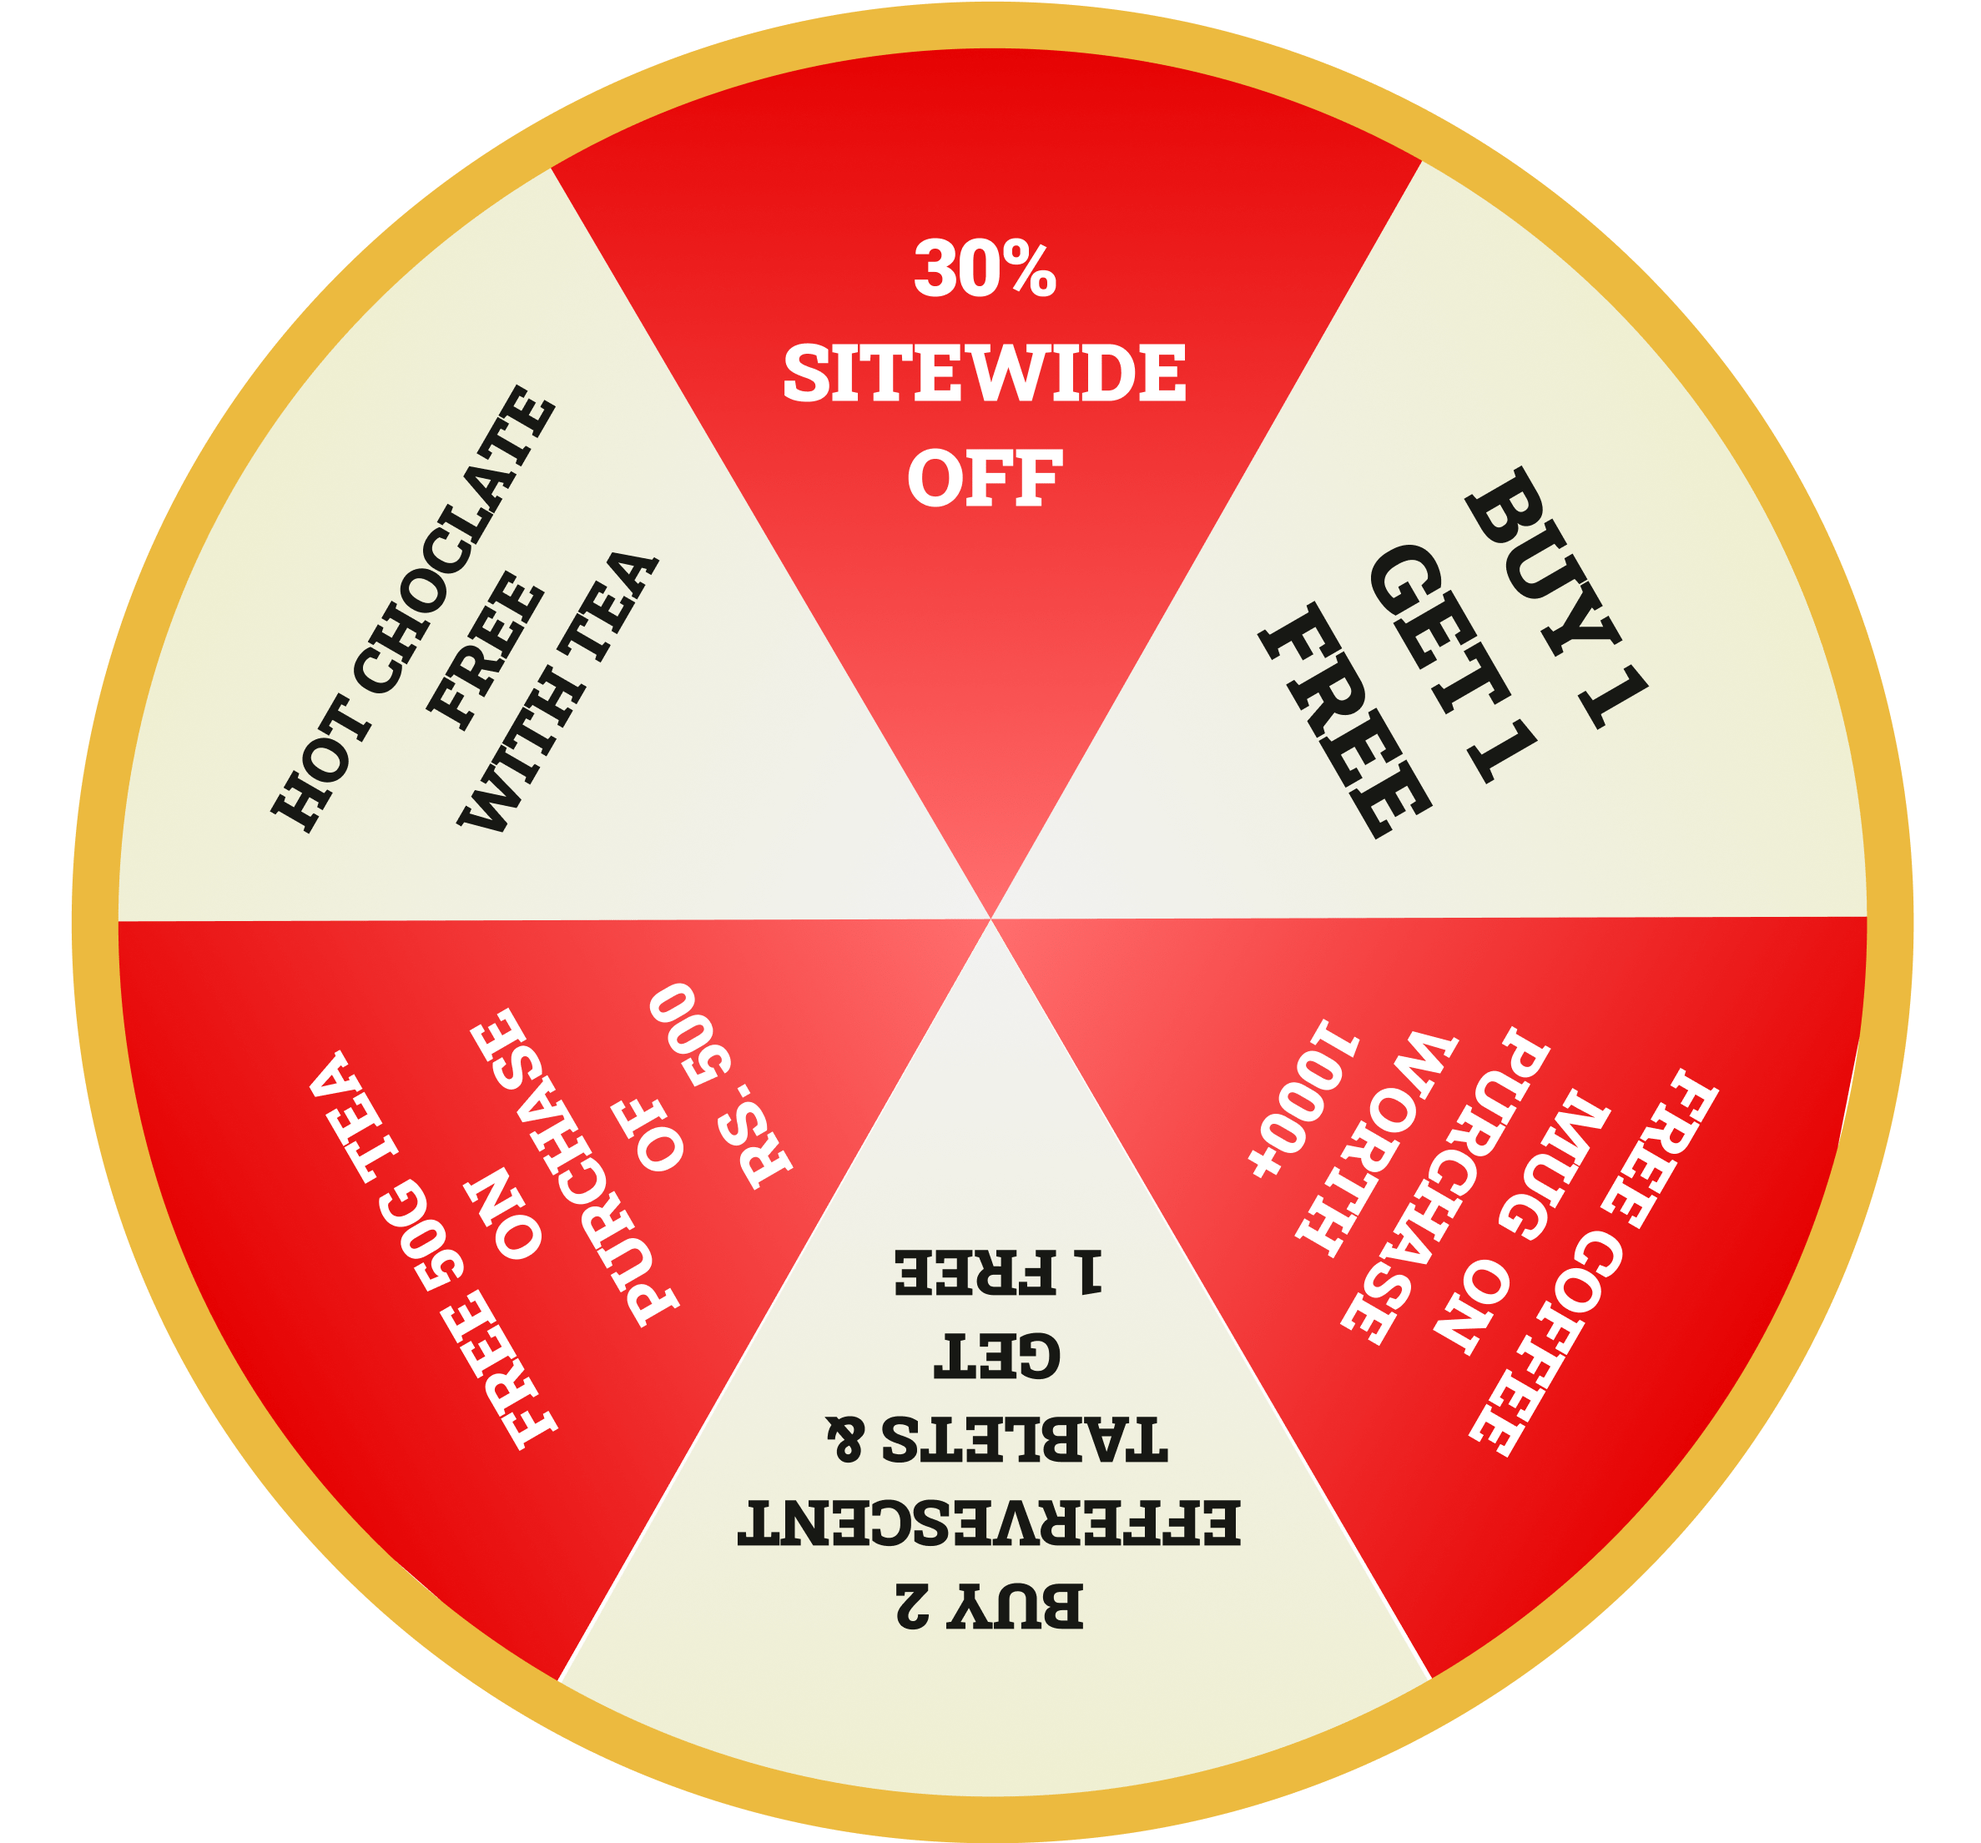
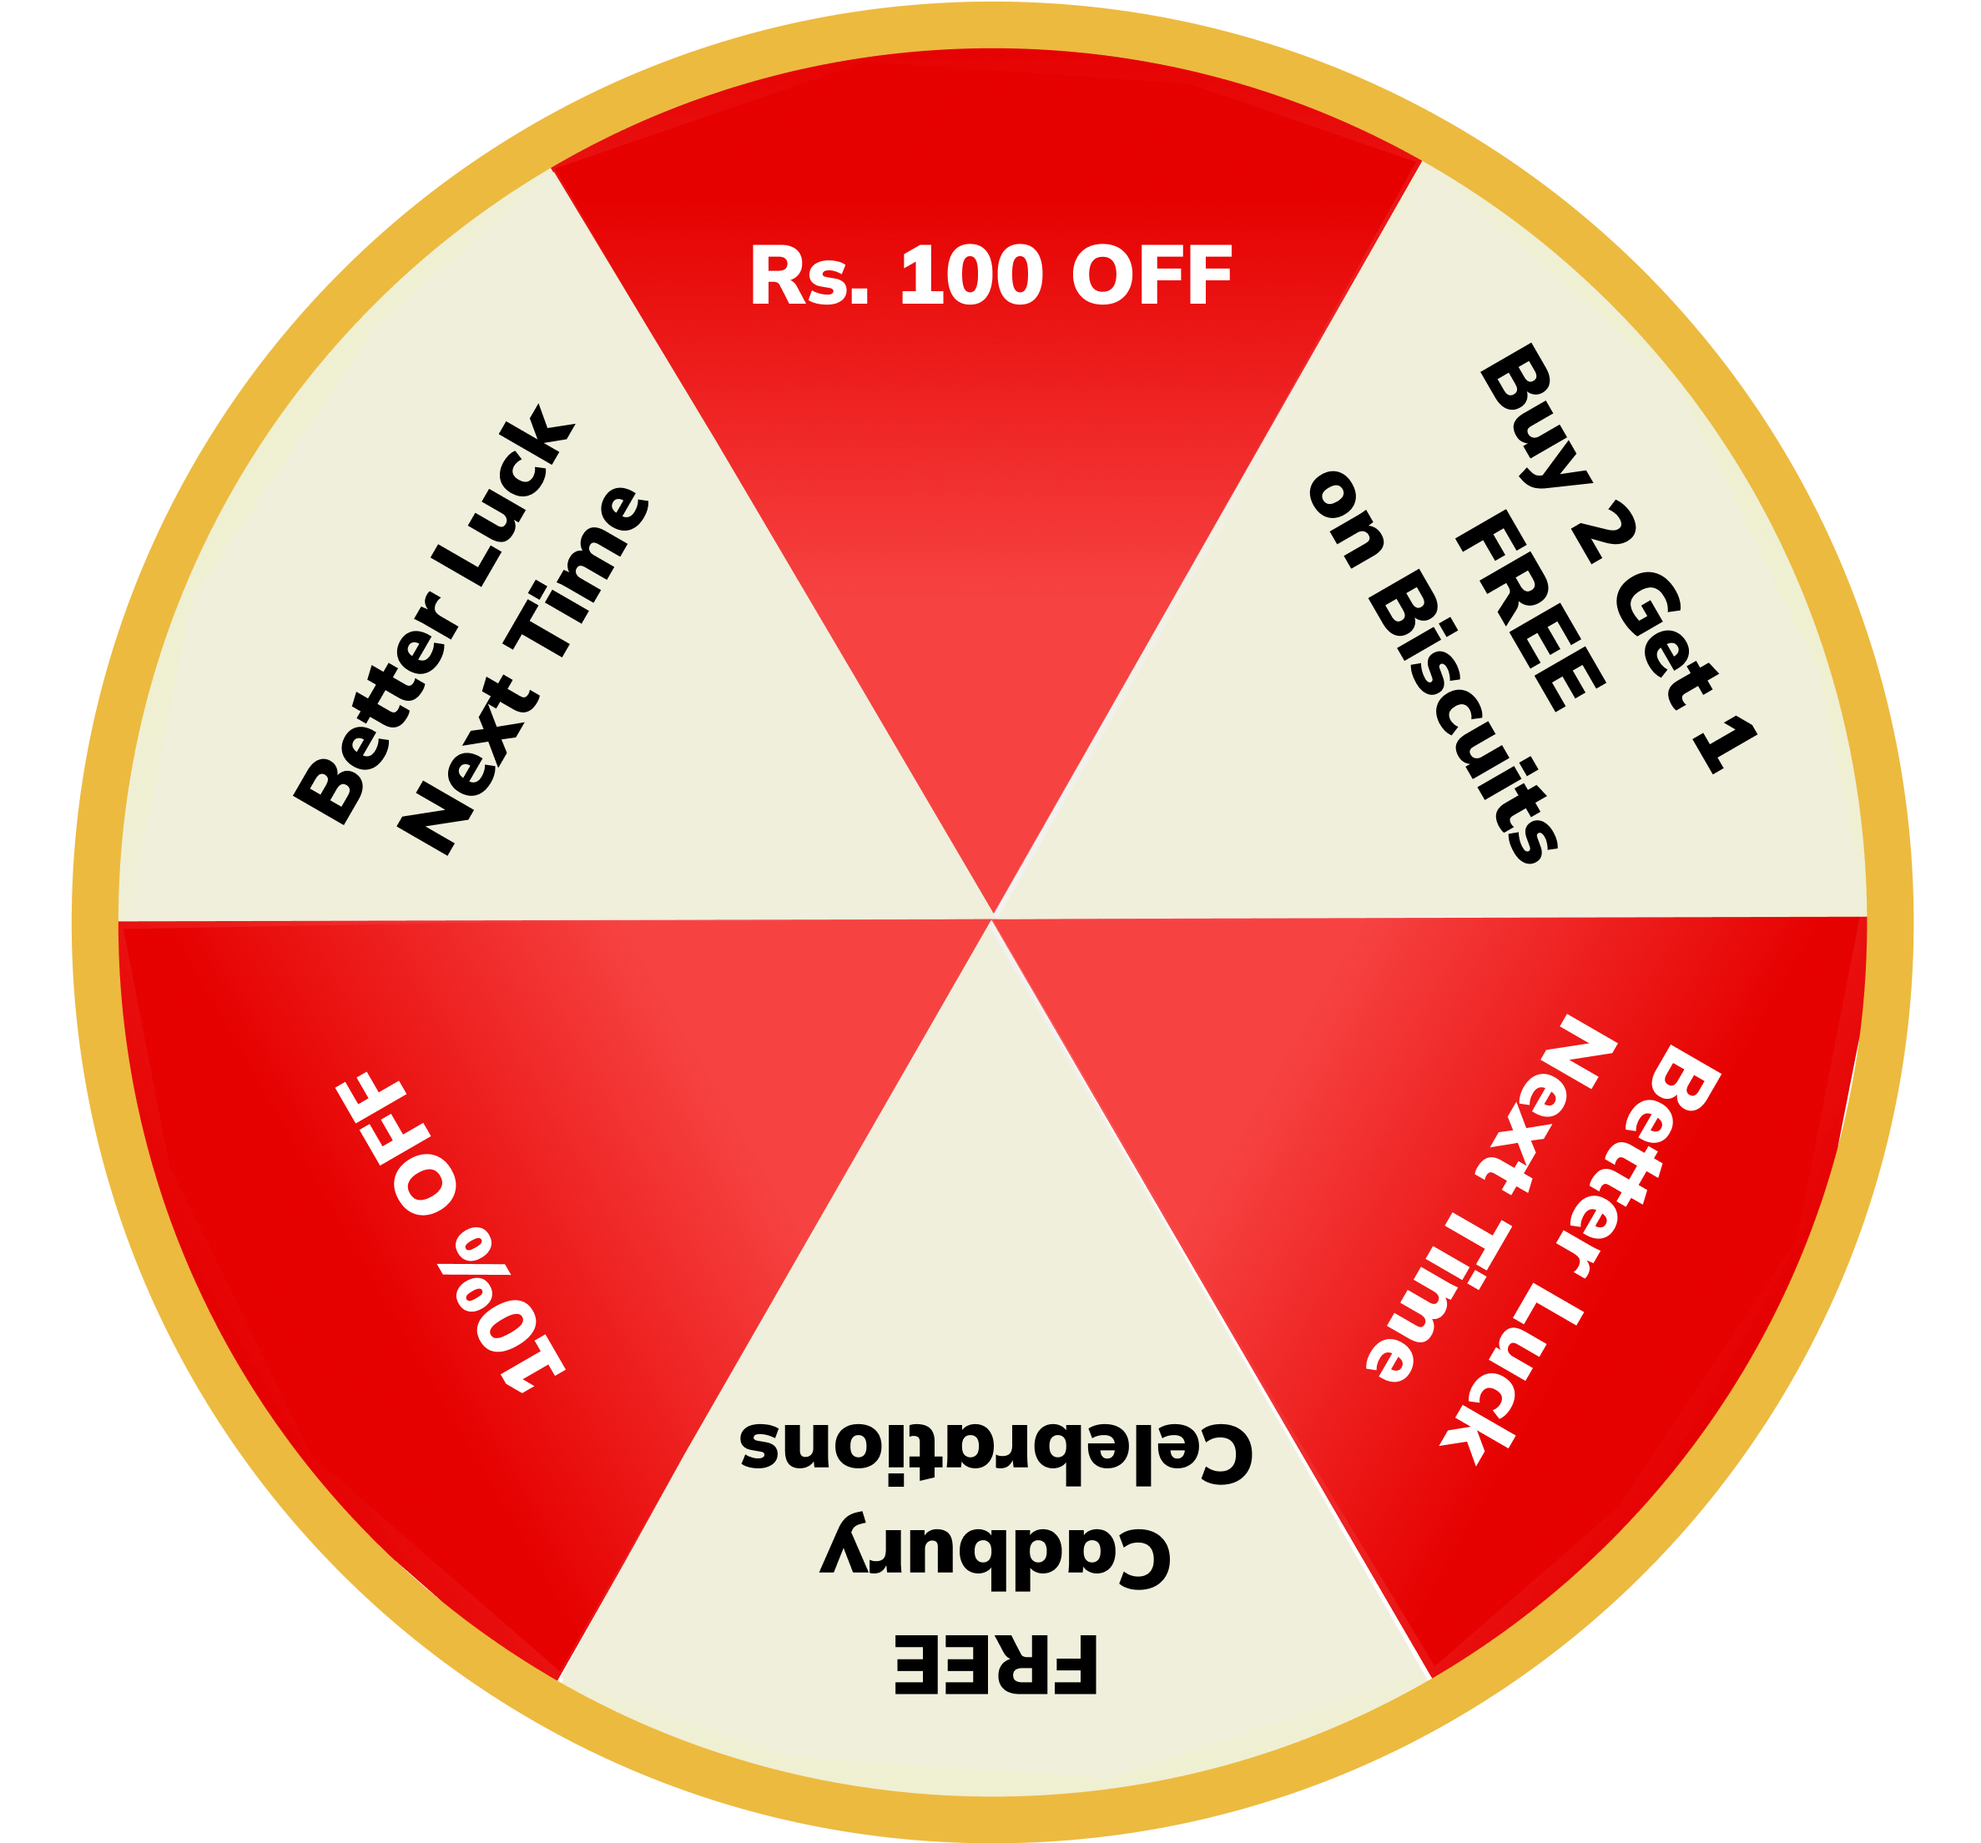
wheel updated

diff --git a/src/SpinWheel.js b/src/SpinWheel.js
@@ -14,27 +14,27 @@ function SpinWheel() {
   const items = [
     {
       angle:"0deg",
-      reward:"30% SITEWIDE OFF",
+      reward:"Rs. 100 OFF",
     },
     {
       angle:"60deg",
-      reward:"BUY 1 GET1 FREE",
+      reward:"Buy 2 Get 1 FREE on Biscuits",
     },
     {
       angle:"120deg",
-      reward:"FREE COFFEE MUG ON PURCHASE WORTH 1000+",
+      reward:"Better Luck Next Time",
     },
     {
       angle:"180deg",
-      reward:"Buy 2 Effervescent tablets & get 1 free",
+      reward:"FREE Cadbury Celebrations",
     },
     {
       angle:"240deg",
-      reward:"Free 50g tea on purchase of Rs. 500",
+      reward:"10% OFF",
     },
     {
       angle:"300deg",
-      reward:"HOT CHOCLATE FREE WITH TEA",
+      reward:"Better Luck Next Time",
     }
   ];
   const spinIt = ()=>{
